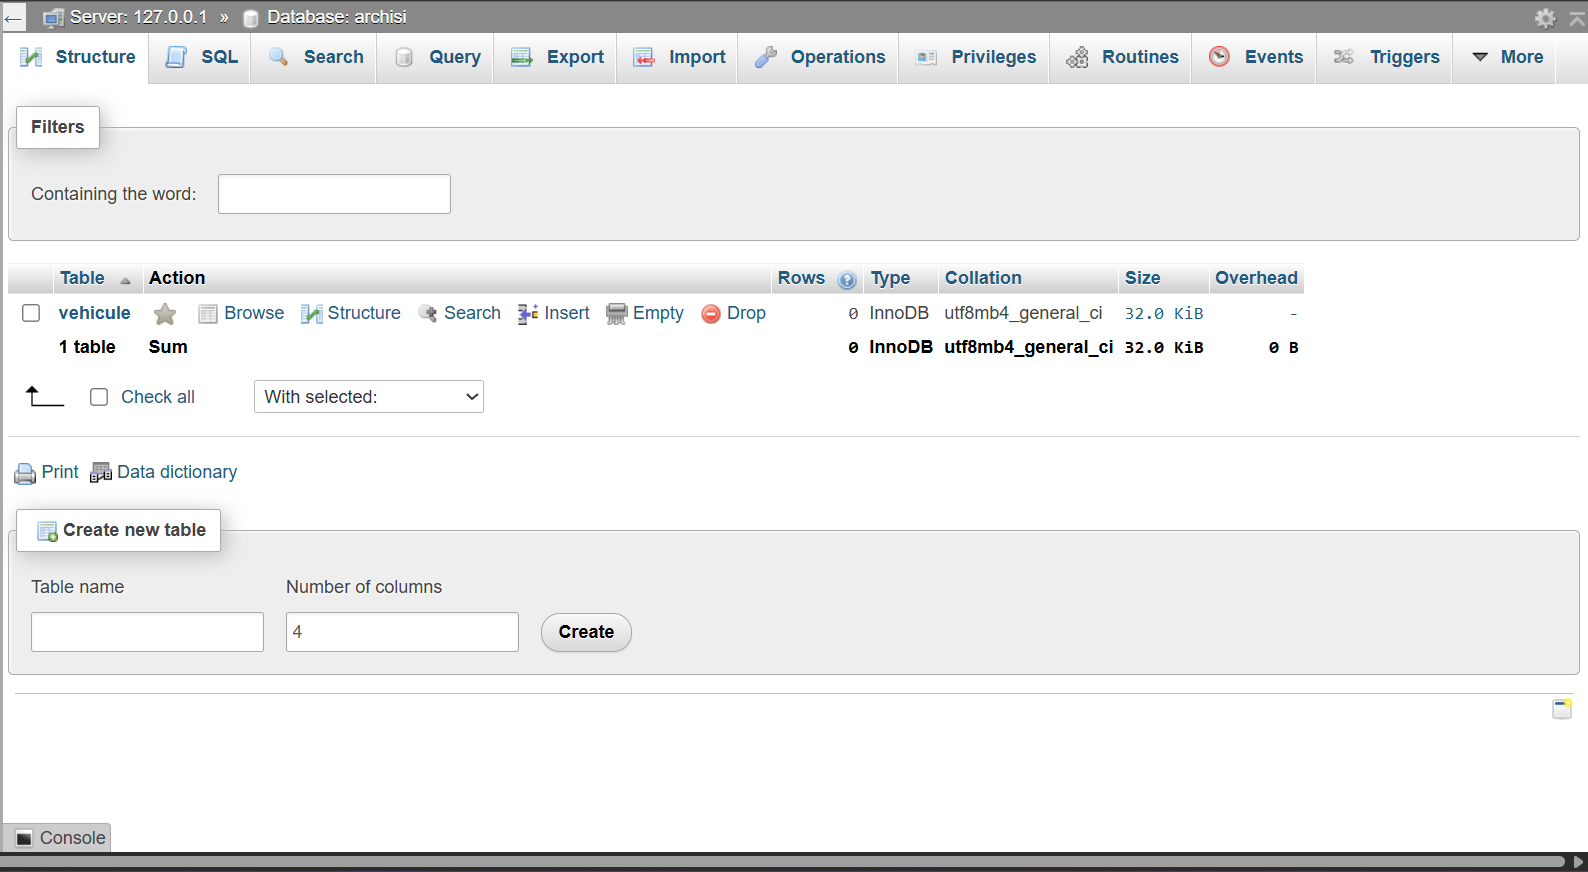
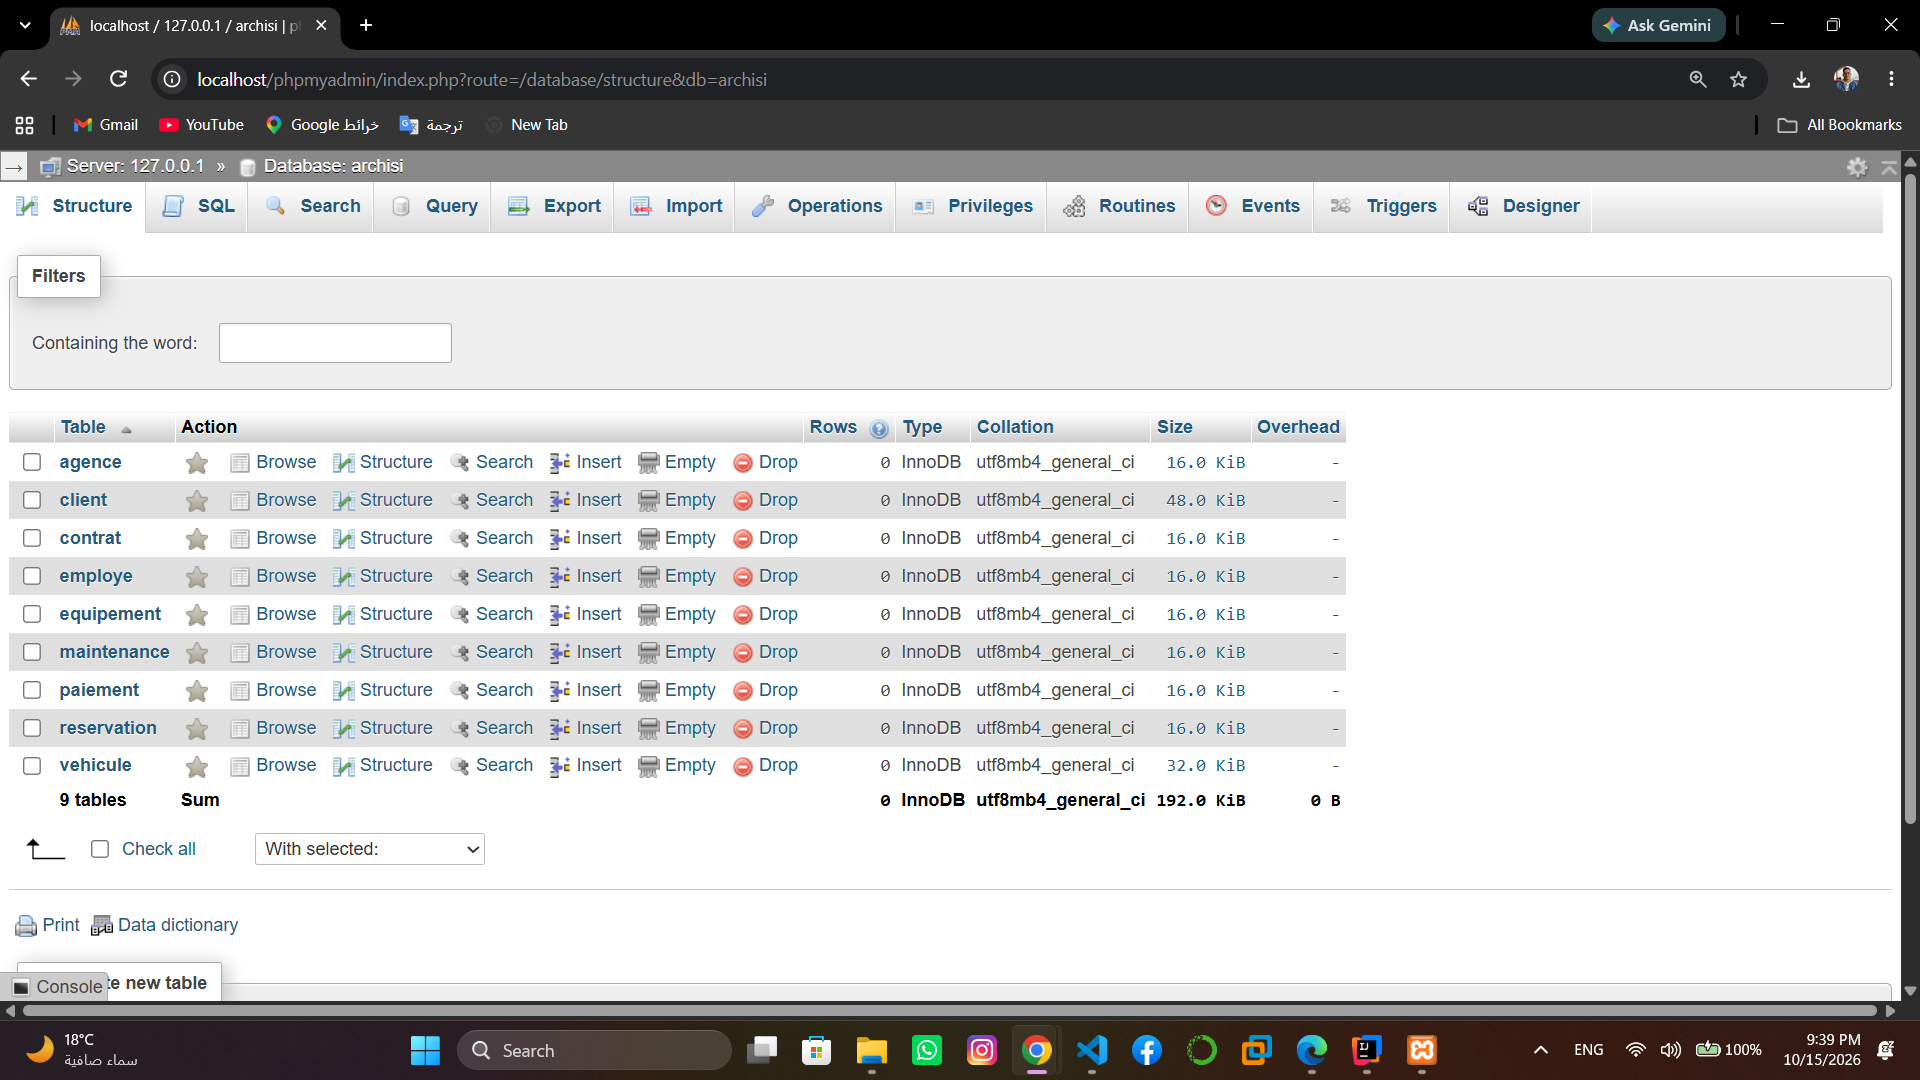
Prépa Atelier 2 : entités restantes sans associations

diff --git a/src/main/java/tn/esprit/kacem_mabrouki_4iet_i3/domain/Client.java b/src/main/java/tn/esprit/kacem_mabrouki_4iet_i3/domain/Client.java
@@ -1,0 +1,27 @@
+package tn.esprit.kacem_mabrouki_4iet_i3.domain;
+
+import jakarta.persistence.*;
+import lombok.AllArgsConstructor;
+import lombok.Getter;
+import lombok.NoArgsConstructor;
+import lombok.Setter;
+
+import java.time.LocalDate;
+
+@Entity
+@Table(name = "client")
+@Getter
+@Setter
+@NoArgsConstructor
+@AllArgsConstructor
+public class Client {
+    @Id
+    @GeneratedValue(strategy = GenerationType.IDENTITY)
+    private Long idClient;
+    @Column(nullable = false, length = 50) private String nom;
+    @Column(nullable = false, length = 50) private String prenom;
+    @Column(nullable = false, unique = true, length = 100) private String email;
+    @Column(length = 20) private String telephone;
+    @Column(nullable = false, unique = true, length = 30) private String numPermis;
+    @Column(nullable = false) private LocalDate dateInscription;
+}

diff --git a/src/main/java/tn/esprit/kacem_mabrouki_4iet_i3/domain/Agence.java b/src/main/java/tn/esprit/kacem_mabrouki_4iet_i3/domain/Agence.java
@@ -1,0 +1,22 @@
+package tn.esprit.kacem_mabrouki_4iet_i3.domain;
+
+import jakarta.persistence.*;
+import lombok.AllArgsConstructor;
+import lombok.Getter;
+import lombok.NoArgsConstructor;
+import lombok.Setter;
+
+@Entity
+@Table(name = "agence")
+@Getter
+@Setter
+@NoArgsConstructor
+@AllArgsConstructor
+public class Agence {
+    @Id @GeneratedValue(strategy = GenerationType.IDENTITY)
+    private Long idAgence;
+    @Column(nullable = false, length = 100) private String nom;
+    @Column(nullable = false, length = 50)  private String ville;
+    @Column(nullable = false, length = 150) private String adresse;
+    @Column(length = 20) private String telephone;
+}

diff --git a/src/main/java/tn/esprit/kacem_mabrouki_4iet_i3/domain/Paiement.java b/src/main/java/tn/esprit/kacem_mabrouki_4iet_i3/domain/Paiement.java
@@ -1,0 +1,19 @@
+package tn.esprit.kacem_mabrouki_4iet_i3.domain;
+
+import jakarta.persistence.*;
+import lombok.*;
+
+import java.time.LocalDate;
+import java.math.BigDecimal;
+
+
+@Entity @Table(name = "paiement")
+@Getter @Setter @NoArgsConstructor @AllArgsConstructor
+public class Paiement {
+    @Id @GeneratedValue(strategy = GenerationType.IDENTITY)
+    private Long idPaiement;
+    @Column(nullable = false, precision = 10, scale = 2) private BigDecimal montant;
+    @Column(nullable = false) private LocalDate datePaiement;
+    @Enumerated(EnumType.STRING) @Column(nullable = false, length = 20)
+    private ModePaiement modePaiement;
+}

diff --git a/src/main/java/tn/esprit/kacem_mabrouki_4iet_i3/domain/Reservation.java b/src/main/java/tn/esprit/kacem_mabrouki_4iet_i3/domain/Reservation.java
@@ -1,0 +1,16 @@
+package tn.esprit.kacem_mabrouki_4iet_i3.domain;
+import jakarta.persistence.*;
+import lombok.*;
+
+import java.time.LocalDate;
+
+@Entity @Table(name = "reservation")
+@Getter @Setter @NoArgsConstructor @AllArgsConstructor
+public class Reservation {
+    @Id @GeneratedValue(strategy = GenerationType.IDENTITY)
+    private Long idReservation;
+    @Column(nullable = false) private LocalDate dateDebut;
+    @Column(nullable = false) private LocalDate dateFin;
+    @Enumerated(EnumType.STRING) @Column(nullable = false, length = 20)
+    private StatuReservation statut;
+}

diff --git a/src/main/java/tn/esprit/kacem_mabrouki_4iet_i3/domain/Contrat.java b/src/main/java/tn/esprit/kacem_mabrouki_4iet_i3/domain/Contrat.java
@@ -1,0 +1,16 @@
+package tn.esprit.kacem_mabrouki_4iet_i3.domain;
+import jakarta.persistence.*;
+import lombok.*;
+
+import java.math.BigDecimal;
+import java.time.LocalDate;
+
+@Entity @Table(name = "contrat")
+@Getter @Setter @NoArgsConstructor @AllArgsConstructor
+public class Contrat {
+    @Id @GeneratedValue(strategy = GenerationType.IDENTITY)
+    private Long idContrat;
+    @Column(nullable = false) private LocalDate dateSignature;
+    @Column(nullable = false, precision = 10, scale = 2) private BigDecimal montantTotal;
+    @Column(nullable = false) private boolean valide;
+}

diff --git a/src/main/java/tn/esprit/kacem_mabrouki_4iet_i3/domain/Employe.java b/src/main/java/tn/esprit/kacem_mabrouki_4iet_i3/domain/Employe.java
@@ -1,0 +1,17 @@
+package tn.esprit.kacem_mabrouki_4iet_i3.domain;
+
+import jakarta.persistence.*;
+import lombok.*;
+
+@Entity
+@Table(name = "employe")
+@Getter
+@Setter @NoArgsConstructor @AllArgsConstructor
+public class Employe {
+    @Id @GeneratedValue(strategy = GenerationType.IDENTITY)
+    private Long idEmploye;
+    @Column(nullable = false, length = 50) private String nom;
+    @Column(nullable = false, length = 50) private String prenom;
+    @Enumerated(EnumType.STRING) @Column(nullable = false, length = 20)
+    private RoleEmploye role;
+}

diff --git a/src/main/java/tn/esprit/kacem_mabrouki_4iet_i3/domain/Maintenance.java b/src/main/java/tn/esprit/kacem_mabrouki_4iet_i3/domain/Maintenance.java
@@ -1,0 +1,16 @@
+package tn.esprit.kacem_mabrouki_4iet_i3.domain;
+
+import jakarta.persistence.*;
+import lombok.*;
+
+import java.time.LocalDate;
+
+@Entity @Table(name = "maintenance")
+@Getter @Setter @NoArgsConstructor @AllArgsConstructor
+public class Maintenance {
+    @Id @GeneratedValue(strategy = GenerationType.IDENTITY)
+    private Long idMaintenance;
+    @Column(nullable = false) private LocalDate dateDebut;
+    private LocalDate dateFin;
+    @Column(length = 255) private String description;
+}

diff --git a/src/main/java/tn/esprit/kacem_mabrouki_4iet_i3/domain/Equipement.java b/src/main/java/tn/esprit/kacem_mabrouki_4iet_i3/domain/Equipement.java
@@ -1,0 +1,13 @@
+package tn.esprit.kacem_mabrouki_4iet_i3.domain;
+
+import jakarta.persistence.*;
+import lombok.*;
+
+@Entity @Table(name = "equipement")
+@Getter
+@Setter @NoArgsConstructor @AllArgsConstructor
+public class Equipement {
+    @Id @GeneratedValue(strategy = GenerationType.IDENTITY)
+    private Long idEquipement;
+    @Column(nullable = false, length = 100) private String libelle;
+}

diff --git a/src/main/java/tn/esprit/kacem_mabrouki_4iet_i3/domain/StatuReservation.java b/src/main/java/tn/esprit/kacem_mabrouki_4iet_i3/domain/StatuReservation.java
@@ -1,0 +1,5 @@
+package tn.esprit.kacem_mabrouki_4iet_i3.domain;
+
+public enum StatuReservation {
+    EN_ATTENTE, CONFIRMEE, ANNULEE, TERMINEE
+}

diff --git a/src/main/java/tn/esprit/kacem_mabrouki_4iet_i3/domain/ModePaiement.java b/src/main/java/tn/esprit/kacem_mabrouki_4iet_i3/domain/ModePaiement.java
@@ -1,0 +1,5 @@
+package tn.esprit.kacem_mabrouki_4iet_i3.domain;
+
+public enum ModePaiement {
+    CARTE, ESPECES, VIREMENT
+}

diff --git a/src/main/java/tn/esprit/kacem_mabrouki_4iet_i3/domain/RoleEmploye.java b/src/main/java/tn/esprit/kacem_mabrouki_4iet_i3/domain/RoleEmploye.java
@@ -1,0 +1,5 @@
+package tn.esprit.kacem_mabrouki_4iet_i3.domain;
+
+public enum RoleEmploye {
+    AGENT, MANAGER
+}
